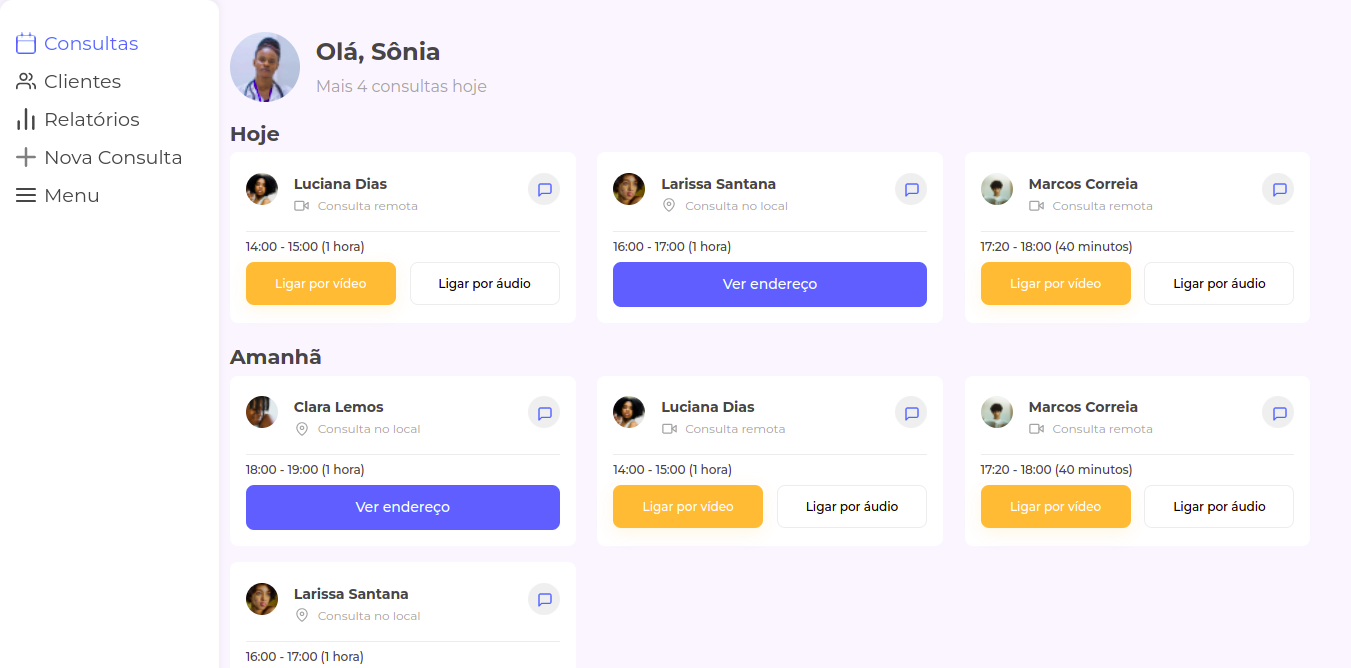
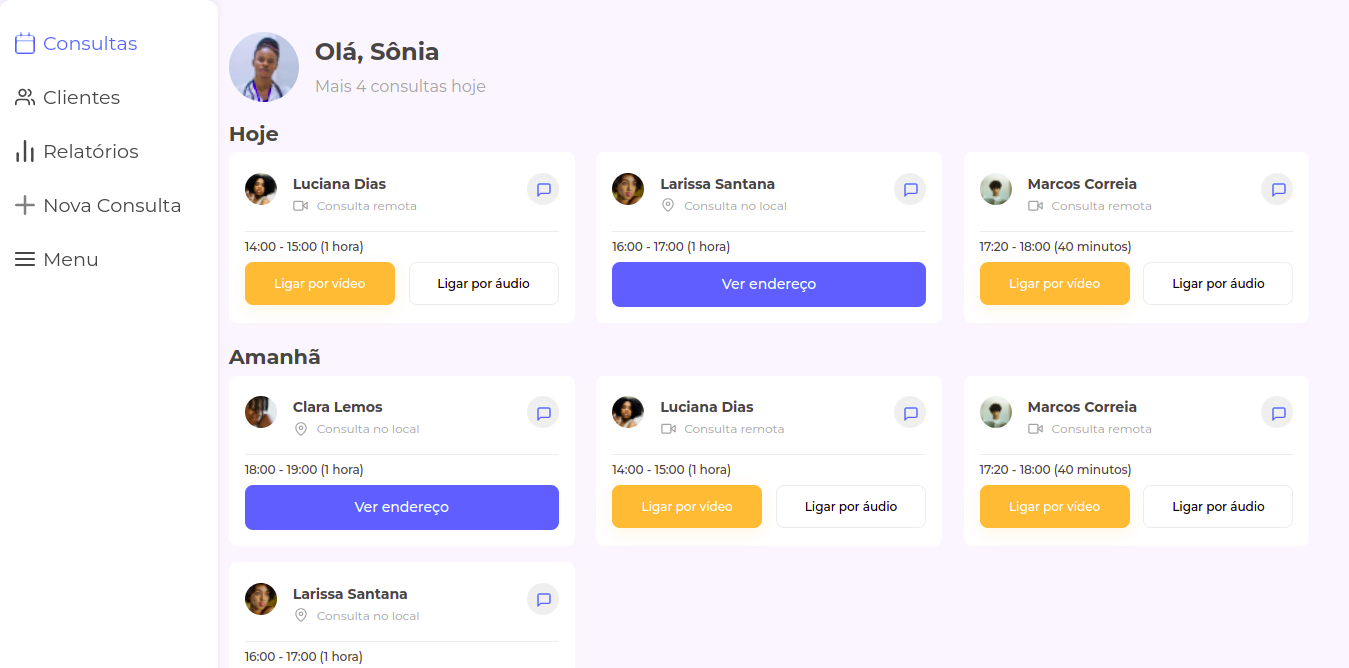
:iphone: Improving responsive layout

diff --git a/responsividade/assets/css/_menu.css b/responsividade/assets/css/_menu.css
@@ -61,7 +61,7 @@
   .menu__list {
     align-items: flex-start;
     flex-direction: column;
-    gap: 1rem;
+    gap: 2rem;
   }
 
   .menu__item {
